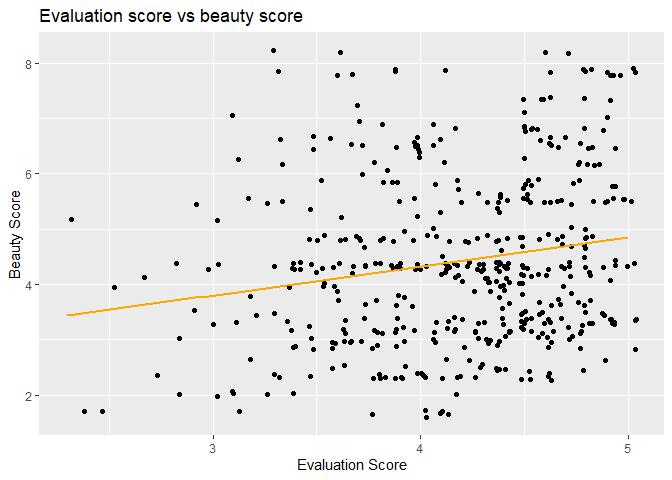
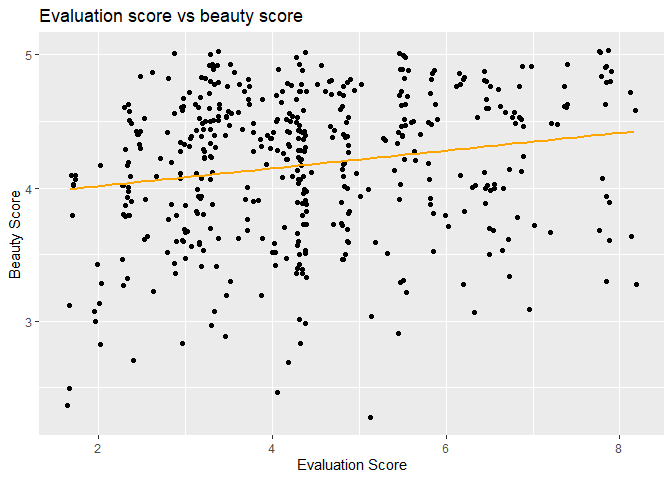
Finished 9 and fixed some graphs.

diff --git a/lab-09.md b/lab-09.md
@@ -53,7 +53,7 @@ would skew the distribution.
 ### Exercise 2
 
 ``` r
-ggplot(evals, aes(x=score, y=bty_avg)) +
+ggplot(evals, aes(x= bty_avg, y=score)) +
   geom_point() +
   labs(x = "Evaluation Score", y = "Beauty Score", title = "Evaluation score vs beauty score") 
 ```
@@ -67,7 +67,7 @@ associated with higher evaluations), it’s not a strong association.
 ### Exercise 3
 
 ``` r
-ggplot(evals, aes(x=score, y=bty_avg)) +
+ggplot(evals, aes(x=bty_avg, y=score)) +
   geom_jitter() +
   labs(x = "Evaluation Score", y = "Beauty Score", title = "Evaluation score vs beauty score") 
 ```
@@ -105,7 +105,7 @@ lm_fit
 \#\#\#Exercise 5
 
 ``` r
-ggplot(evals, aes(x=score, y=bty_avg)) + 
+ggplot(evals, aes(x=bty_avg, y=score)) + 
   geom_jitter() +
   geom_smooth(method=lm, se=FALSE, color="orange") +
   labs(x = "Evaluation Score", y = "Beauty Score", title = "Evaluation score vs beauty score") 
